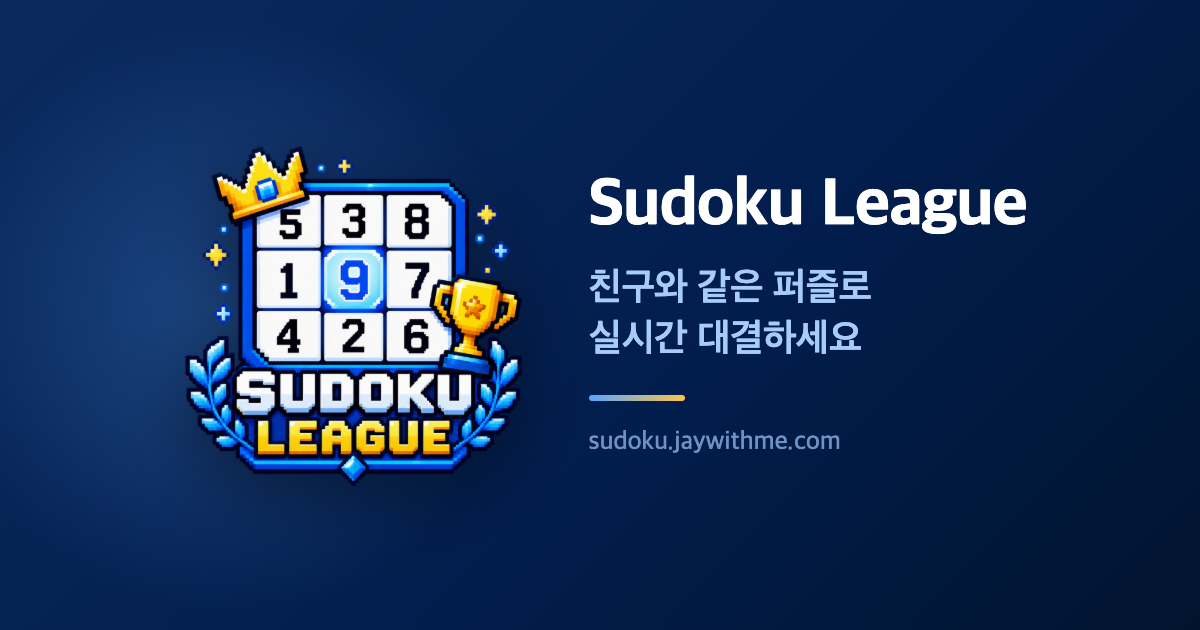
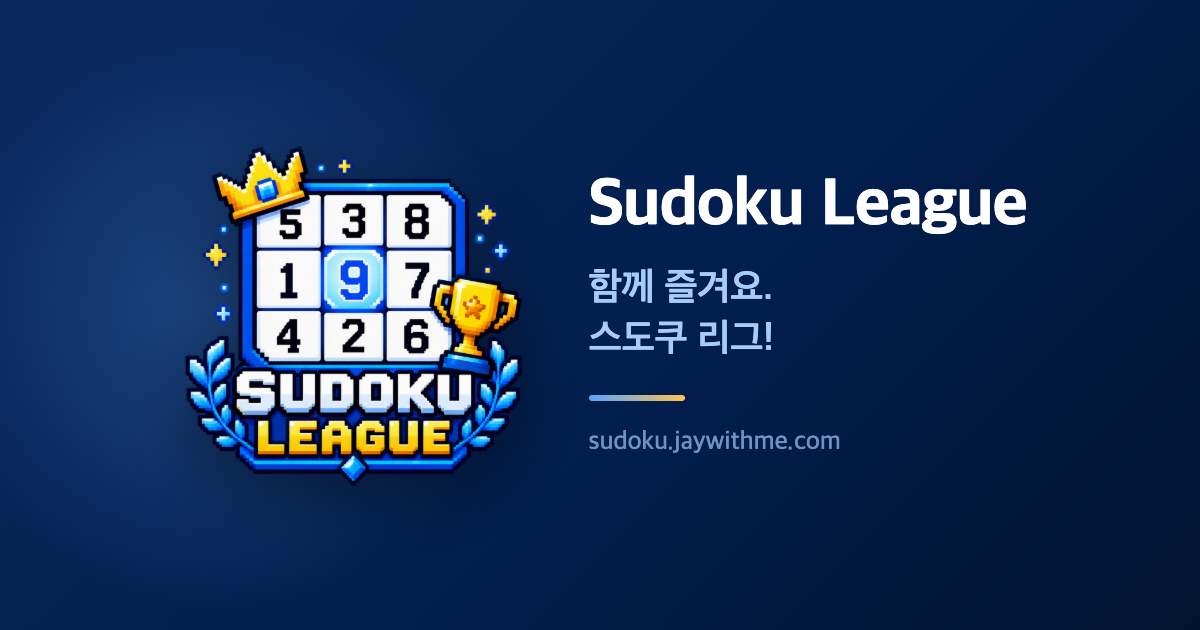
공유 이미지 링크 페이지 s.html 추가, open.html 미리보기 문구·썸네일 교체 (비공개 저장소 0076)

Changed region(s): [[0.4933, 0.4222, 0.74, 0.4825], [0.4933, 0.5127, 0.74, 0.573]]

diff --git a/s.html b/s.html
@@ -1,0 +1,251 @@
+<!DOCTYPE html>
+<html lang="ko" data-lang="ko">
+<head>
+<meta charset="utf-8">
+<meta name="viewport" content="width=device-width, initial-scale=1">
+<title>Sudoku League - 스도쿠 리그</title>
+<!--
+  Shared-image page (decision 0076 §4). Staged here and published by hand to
+  the root of Sun970324/sudoku-links, next to open.html (README.md).
+
+  The app sends https://sudoku.jaywithme.com/s.html?id=<12>&k=<kind>... as one
+  line of text, and this page shows the picture the player chose, read from
+  the public share_images bucket. Unlike open.html the app does NOT claim this
+  path (apple-app-site-association and the Android manifest list /open.html
+  only), so a tap always lands here and shows the image; the button then opens
+  the app the way open.html does.
+
+  Query, every value checked before use and only ever written as textContent
+  or into a URL built from constants:
+    id  12 letters or digits, the object name without .png (required)
+    k   solo | daily | monthly (required)
+    c   a puzzle code, solo only: the button opens that puzzle
+    l   ko | en, the sharer's language, used when the reader has not chosen
+    e   d = the image is on the dev project (a debug build uploaded it)
+  Anything malformed, and an image that fails to load (deleted after 30 days),
+  shows the expired view.
+-->
+<meta name="description" content="함께 즐겨요. 스도쿠 리그!">
+<!-- One player's share, so not for search engines. -->
+<meta name="robots" content="noindex">
+<!-- Open Graph / Twitter card: the same card as open.html, so every link the
+     app sends previews alike (decision 0076 §4). Absolute URLs only. -->
+<meta property="og:type" content="website">
+<meta property="og:url" content="https://sudoku.jaywithme.com/s.html">
+<meta property="og:title" content="Sudoku League - 스도쿠 리그">
+<meta property="og:description" content="함께 즐겨요. 스도쿠 리그!">
+<meta property="og:image" content="https://sudoku.jaywithme.com/og_image.png">
+<meta property="og:image:width" content="1200">
+<meta property="og:image:height" content="630">
+<meta name="twitter:card" content="summary_large_image">
+<meta name="twitter:title" content="Sudoku League - 스도쿠 리그">
+<meta name="twitter:description" content="함께 즐겨요. 스도쿠 리그!">
+<meta name="twitter:image" content="https://sudoku.jaywithme.com/og_image.png">
+<style>
+  :root { --bg-top: #1C1440; --bg-bottom: #0D0B1E; --accent: #FFD24A;
+          --on-accent: #1C1440; }
+  body[data-kind="daily"] { --bg-top: #0f3a3a; --accent: #14B8A6;
+                            --on-accent: #062424; }
+  body[data-kind="monthly"] { --bg-top: #262a6a; --bg-bottom: #0a0c24; }
+  html { background: var(--bg-bottom); }
+  body { max-width: 26rem; min-height: 100vh; margin: 0 auto;
+         padding: 20px 24px 28px; box-sizing: border-box;
+         display: flex; flex-direction: column;
+         font: 16px/1.5 -apple-system, BlinkMacSystemFont, "Apple SD Gothic Neo",
+               "Segoe UI", sans-serif;
+         color: #fff;
+         background: linear-gradient(180deg, var(--bg-top), var(--bg-bottom) 60%); }
+  header { display: flex; align-items: center; gap: 8px; }
+  header img { width: 28px; height: 28px; border-radius: 7px; }
+  header span { font-size: 15px; font-weight: 700; }
+  .lang-toggle { margin-left: auto; font: inherit; font-size: 13px;
+                 color: rgba(255,255,255,.6); background: none; border: 0;
+                 padding: 0; text-decoration: underline; cursor: pointer; }
+  h1 { margin: 22px 0 0; font-size: 20px; font-weight: 700; line-height: 1.35; }
+  .shot { margin-top: 16px; width: 100%; aspect-ratio: 4 / 5; border-radius: 22px;
+          overflow: hidden; background: rgba(255,255,255,.06); }
+  .shot img { display: block; width: 100%; height: 100%; object-fit: contain;
+              opacity: 0; transition: opacity .2s; }
+  .shot img.loaded { opacity: 1; }
+  .actions { margin-top: auto; padding-top: 24px; }
+  .btn { display: flex; align-items: center; justify-content: center;
+         height: 54px; border-radius: 14px; text-decoration: none;
+         font-size: 17px; font-weight: 700;
+         background: var(--accent); color: var(--on-accent); }
+  .note { margin: 10px 0 0; text-align: center; font-size: 12px;
+          color: rgba(255,255,255,.6); }
+  #expired { flex: 1; display: none; flex-direction: column; }
+  #expired .middle { margin: auto 0; display: flex; flex-direction: column;
+                     align-items: center; text-align: center; gap: 12px; }
+  #expired .middle img { width: 120px; height: 120px; border-radius: 26px; }
+  #expired h1 { margin: 8px 0 0; }
+  #expired p { margin: 0; font-size: 14px; line-height: 1.55;
+               color: rgba(255,255,255,.7); }
+  #shared { flex: 1; display: flex; flex-direction: column; }
+  body.expired #shared { display: none; }
+  body.expired #expired { display: flex; }
+  /* One language at a time; only the inactive one is hidden. */
+  html[data-lang="ko"] .en { display: none !important; }
+  html[data-lang="en"] .ko { display: none !important; }
+</style>
+<script>
+  // Language before first paint: the reader's own stored choice, then the
+  // sharer's language from `l`, then the browser's. localStorage throws in
+  // Safari private mode, so every touch of it is guarded.
+  (function () {
+    var lang = null;
+    try { lang = window.localStorage.getItem('sl_lang'); } catch (e) {}
+    if (lang !== 'ko' && lang !== 'en') {
+      lang = new URLSearchParams(location.search).get('l');
+    }
+    if (lang !== 'ko' && lang !== 'en') {
+      var tag = (navigator.languages && navigator.languages[0]) ||
+                navigator.language || 'en';
+      lang = String(tag).toLowerCase().indexOf('ko') === 0 ? 'ko' : 'en';
+    }
+    document.documentElement.setAttribute('data-lang', lang);
+    document.documentElement.lang = lang;
+  })();
+</script>
+</head>
+<body>
+<header>
+  <img src="img/icon.png" alt="">
+  <span><span class="ko">스도쿠 리그</span><span class="en">Sudoku League</span></span>
+  <!-- The label is the language you would switch to. -->
+  <button class="lang-toggle" id="langToggle" type="button"><span class="ko">English</span><span class="en">한국어</span></button>
+</header>
+
+<main id="shared">
+  <h1 id="headline"></h1>
+  <div class="shot"><img id="shot" alt=""></div>
+  <div class="actions">
+    <a class="btn" id="openApp" href="https://sudoku.jaywithme.com/"></a>
+    <p class="note"><span class="ko">앱이 없으면 스토어로 이동해요</span><span class="en">No app yet? This takes you to the store</span></p>
+  </div>
+</main>
+
+<main id="expired">
+  <div class="middle">
+    <img src="img/icon.png" alt="">
+    <h1><span class="ko">기간이 지난 공유예요</span><span class="en">This share has expired</span></h1>
+    <p><span class="ko">공유된 기록은 30일 동안 볼 수 있어요.</span><span class="en">Shared records can be viewed for 30 days.</span></p>
+  </div>
+  <div class="actions">
+    <a class="btn" id="openAppExpired" href="https://sudoku.jaywithme.com/"><span class="ko">스도쿠 리그 열기</span><span class="en">Open Sudoku League</span></a>
+    <p class="note"><span class="ko">앱이 없으면 스토어로 이동해요</span><span class="en">No app yet? This takes you to the store</span></p>
+  </div>
+</main>
+
+<script>
+  // Both projects' public URLs. A debug build uploads to dev and says so
+  // with e=d; nothing else can pick the host.
+  var HOSTS = {
+    prod: 'https://nxzbgkyemozqalhdtbuy.supabase.co',
+    dev: 'https://myidkpljyqooeettknma.supabase.co'
+  };
+  var KINDS = ['solo', 'daily', 'monthly'];
+
+  var params = new URLSearchParams(location.search);
+  var id = params.get('id');
+  var kind = params.get('k');
+  var code = params.get('c');
+  var valid = /^[A-Za-z0-9]{12}$/.test(id || '') && KINDS.indexOf(kind) >= 0;
+  // Only a solo share opens a puzzle; the shape is the app's own puzzle code
+  // (version '1' + base62, at most 48 chars: shared_code.dart).
+  code = kind === 'solo' && /^1[0-9A-Za-z]{10,47}$/.test(code || '') ? code : null;
+  var host = params.get('e') === 'd' ? HOSTS.dev : HOSTS.prod;
+
+  var STRINGS = {
+    ko: {
+      solo: '친구의 기록이 도착했어요',
+      daily: '친구가 오늘의 스도쿠를 풀었어요',
+      monthly: '친구가 이번 달 카드를 받았어요',
+      openPuzzle: '같은 퍼즐 풀어 보기',
+      openApp: '스도쿠 리그 열기'
+    },
+    en: {
+      solo: 'A friend sent you their record',
+      daily: 'A friend solved the Daily Sudoku',
+      monthly: 'A friend got this month’s card',
+      openPuzzle: 'Play the same puzzle',
+      openApp: 'Open Sudoku League'
+    }
+  };
+
+  function currentLang() {
+    return document.documentElement.getAttribute('data-lang') === 'en' ? 'en' : 'ko';
+  }
+
+  function render() {
+    var s = STRINGS[currentLang()];
+    if (valid) document.getElementById('headline').textContent = s[kind];
+    document.getElementById('openApp').textContent = code ? s.openPuzzle : s.openApp;
+  }
+
+  function showExpired() {
+    document.body.classList.add('expired');
+  }
+
+  document.getElementById('langToggle').addEventListener('click', function () {
+    var next = currentLang() === 'ko' ? 'en' : 'ko';
+    document.documentElement.setAttribute('data-lang', next);
+    document.documentElement.lang = next;
+    try { window.localStorage.setItem('sl_lang', next); } catch (e) {}
+    render();
+  });
+
+  // Store links tagged by what was shared, so installs from a share can be
+  // told apart (open.html tags invites the same way).
+  var campaign = valid ? 'share-' + kind : 'share';
+  var APPSTORE_URL = 'https://apps.apple.com/app/apple-store/id6794986328' +
+    '?pt=129224023&ct=' + campaign + '&mt=8';
+  var PLAY_URL = 'https://play.google.com/store/apps/details?id=jaywithme.sudoku' +
+    '&utm_source=sudoku.jaywithme.com&utm_medium=web&utm_campaign=' + campaign;
+
+  var ua = navigator.userAgent;
+  var isAndroid = /android/i.test(ua);
+  var isIos = /iphone|ipad|ipod/i.test(ua) ||
+    (navigator.platform === 'MacIntel' && navigator.maxTouchPoints > 1);
+
+  // open.html's app-or-store jump, run on a tap instead of on arrival: this
+  // page exists to be looked at first. Android: Chrome's intent with the Play
+  // Store as its fallback. iOS: the scheme, then the App Store after 1.6s
+  // unless the app took the page away. Elsewhere the links stay on the
+  // intro page, which has both store buttons.
+  function wireOpen(el, withCode) {
+    var query = withCode && code ? '?c=' + encodeURIComponent(code) : '';
+    var scheme = 'sudokuleague://open' + query;
+    if (isAndroid) {
+      el.href = 'intent://open' + query +
+        '#Intent;scheme=sudokuleague;package=jaywithme.sudoku;' +
+        'S.browser_fallback_url=' + encodeURIComponent(PLAY_URL) + ';end';
+    } else if (isIos) {
+      el.href = scheme;
+      el.addEventListener('click', function (event) {
+        event.preventDefault();
+        var fallback = setTimeout(function () { location.href = APPSTORE_URL; }, 1600);
+        var cancel = function () { if (document.hidden) clearTimeout(fallback); };
+        document.addEventListener('visibilitychange', cancel);
+        window.addEventListener('pagehide', function () { clearTimeout(fallback); });
+        location.href = scheme;
+      });
+    }
+  }
+
+  wireOpen(document.getElementById('openApp'), true);
+  wireOpen(document.getElementById('openAppExpired'), false);
+
+  if (!valid) {
+    showExpired();
+  } else {
+    document.body.setAttribute('data-kind', kind);
+    var shot = document.getElementById('shot');
+    shot.addEventListener('load', function () { shot.classList.add('loaded'); });
+    shot.addEventListener('error', showExpired);
+    shot.src = host + '/storage/v1/object/public/share_images/' + id + '.png';
+  }
+  render();
+</script>
+</body>
+</html>

diff --git a/open.html b/open.html
@@ -22,11 +22,11 @@
   Bilingual, one language at a time: both ko and en are in the markup and
   html[data-lang] hides the other. The head script picks it before first paint
   from localStorage 'sl_lang', else navigator.language; the toggle at the top
-  switches and persists it (same key as index.html). The two
+  switches and persists it (same key as index.html / coupon.html). The two
   strings this page writes from script — the lead line and the copy button —
   are derived from a state, so a switch retranslates what is already on screen.
 -->
-<meta name="description" content="초대 코드로 친구와 같은 퍼즐을 풀며 실시간 대결하는 스도쿠 앱, Sudoku League.">
+<meta name="description" content="함께 즐겨요. 스도쿠 리그!">
 <!--
   Open Graph / Twitter card. This is what KakaoTalk, iMessage, Discord and the
   rest render when the link is pasted into a chat — without it they show a bare
@@ -44,14 +44,14 @@
 -->
 <meta property="og:type" content="website">
 <meta property="og:url" content="https://sudoku.jaywithme.com/open.html">
-<meta property="og:title" content="Sudoku League — 스도쿠 리그">
-<meta property="og:description" content="친구가 보낸 퍼즐이 도착했어요. 같은 퍼즐로 실시간 대결하세요.">
+<meta property="og:title" content="Sudoku League - 스도쿠 리그">
+<meta property="og:description" content="함께 즐겨요. 스도쿠 리그!">
 <meta property="og:image" content="https://sudoku.jaywithme.com/og_image.png">
 <meta property="og:image:width" content="1200">
 <meta property="og:image:height" content="630">
 <meta name="twitter:card" content="summary_large_image">
-<meta name="twitter:title" content="Sudoku League — 스도쿠 리그">
-<meta name="twitter:description" content="친구가 보낸 퍼즐이 도착했어요. 같은 퍼즐로 실시간 대결하세요.">
+<meta name="twitter:title" content="Sudoku League - 스도쿠 리그">
+<meta name="twitter:description" content="함께 즐겨요. 스도쿠 리그!">
 <meta name="twitter:image" content="https://sudoku.jaywithme.com/og_image.png">
 <style>
   body { max-width: 32rem; margin: 0 auto; padding: 3rem 1.25rem 4rem;
@@ -125,8 +125,8 @@
   <a class="btn primary" id="openApp" href="#"><span class="ko">앱에서 열기</span><span class="en">Open in the app</span></a>
   <!-- APPSTORE_URL: numeric App Store id 6794986328 (store_listing.md /
        STATUS_ARCHIVE 08-14, confirmed against itunes.apple.com/lookup). -->
-  <a class="btn" href="https://apps.apple.com/app/id6794986328"><span class="ko">App Store에서 받기</span><span class="en">Get it on the App Store</span></a>
-  <a class="btn" href="https://play.google.com/store/apps/details?id=jaywithme.sudoku"><span class="ko">Google Play에서 받기</span><span class="en">Get it on Google Play</span></a>
+  <a class="btn" data-store="ios" href="https://apps.apple.com/app/id6794986328"><span class="ko">App Store에서 받기</span><span class="en">Get it on the App Store</span></a>
+  <a class="btn" data-store="play" href="https://play.google.com/store/apps/details?id=jaywithme.sudoku"><span class="ko">Google Play에서 받기</span><span class="en">Get it on Google Play</span></a>
 
   <div class="code-block">
     <h2><span class="ko">코드</span><span class="en">Code</span></h2>
@@ -137,9 +137,9 @@
 </div>
 
 <div id="missing">
-  <p><span class="ko">이 링크에는 코드가 없어요. 친구가 보낸 링크를 다시 확인해 주세요.</span><span class="en">This link carries no code. Please check the link your friend sent.</span></p>
-  <a class="btn" href="https://apps.apple.com/app/id6794986328"><span class="ko">App Store에서 받기</span><span class="en">Get it on the App Store</span></a>
-  <a class="btn" href="https://play.google.com/store/apps/details?id=jaywithme.sudoku"><span class="ko">Google Play에서 받기</span><span class="en">Get it on Google Play</span></a>
+  <p><span class="ko">이유를 알려주는 힌트와 실시간 랭크 대결로 배우는 스도쿠예요. 앱을 받아 오늘의 스도쿠에 도전해 보세요.</span><span class="en">Sudoku with hints that explain why, and live ranked matches. Get the app and try the Daily Sudoku.</span></p>
+  <a class="btn" data-store="ios" href="https://apps.apple.com/app/id6794986328"><span class="ko">App Store에서 받기</span><span class="en">Get it on the App Store</span></a>
+  <a class="btn" data-store="play" href="https://play.google.com/store/apps/details?id=jaywithme.sudoku"><span class="ko">Google Play에서 받기</span><span class="en">Get it on Google Play</span></a>
 </div>
 
 <script>
@@ -149,8 +149,22 @@
   var code = new URLSearchParams(location.search).get('c');
   code = code === null ? '' : code.trim();
 
-  var PLAY_URL = 'https://play.google.com/store/apps/details?id=jaywithme.sudoku';
-  var APPSTORE_URL = 'https://apps.apple.com/app/id6794986328';
+  // Campaign tag for the store links, so installs from an invite can be told
+  // apart from the site's other pages (docs/index.html tags its own). Same
+  // rule as the app's classifySharedCode: exactly 6 chars from the room-code
+  // alphabet (no 0/O/1/I/L), case-insensitive, is a friend room; any other
+  // code is a puzzle share code; no code is a plain invite. The untagged hrefs
+  // in the markup stay as the fallback if this script never runs.
+  var campaign = code === '' ? 'invite'
+    : /^[2-9A-HJKMNP-Z]{6}$/.test(code.toUpperCase()) ? 'invite-room'
+    : 'invite-puzzle';
+  var APPSTORE_URL = 'https://apps.apple.com/app/apple-store/id6794986328' +
+    '?pt=129224023&ct=' + campaign + '&mt=8';
+  var PLAY_URL = 'https://play.google.com/store/apps/details?id=jaywithme.sudoku' +
+    '&utm_source=sudoku.jaywithme.com&utm_medium=web&utm_campaign=' + campaign;
+  Array.prototype.forEach.call(document.querySelectorAll('a[data-store]'), function (el) {
+    el.href = el.getAttribute('data-store') === 'ios' ? APPSTORE_URL : PLAY_URL;
+  });
 
   // The only two strings this page writes from script. Nothing is spelled out
   // at the call site: the lead and the copy button remember a *state*, and the
@@ -172,8 +186,8 @@
   };
 
   // Language-independent record of what is on screen.
-  // 'invite' | 'connecting' | 'none' — 'none' is the missing-code case, where
-  // the lead says nothing at all.
+  // 'invite' | 'connecting' | 'none' — 'none' is the no-code case (the plain
+  // app link a daily share sends), where the lead says nothing at all.
   var leadState = 'invite';
   var copyState = 'idle';
 
